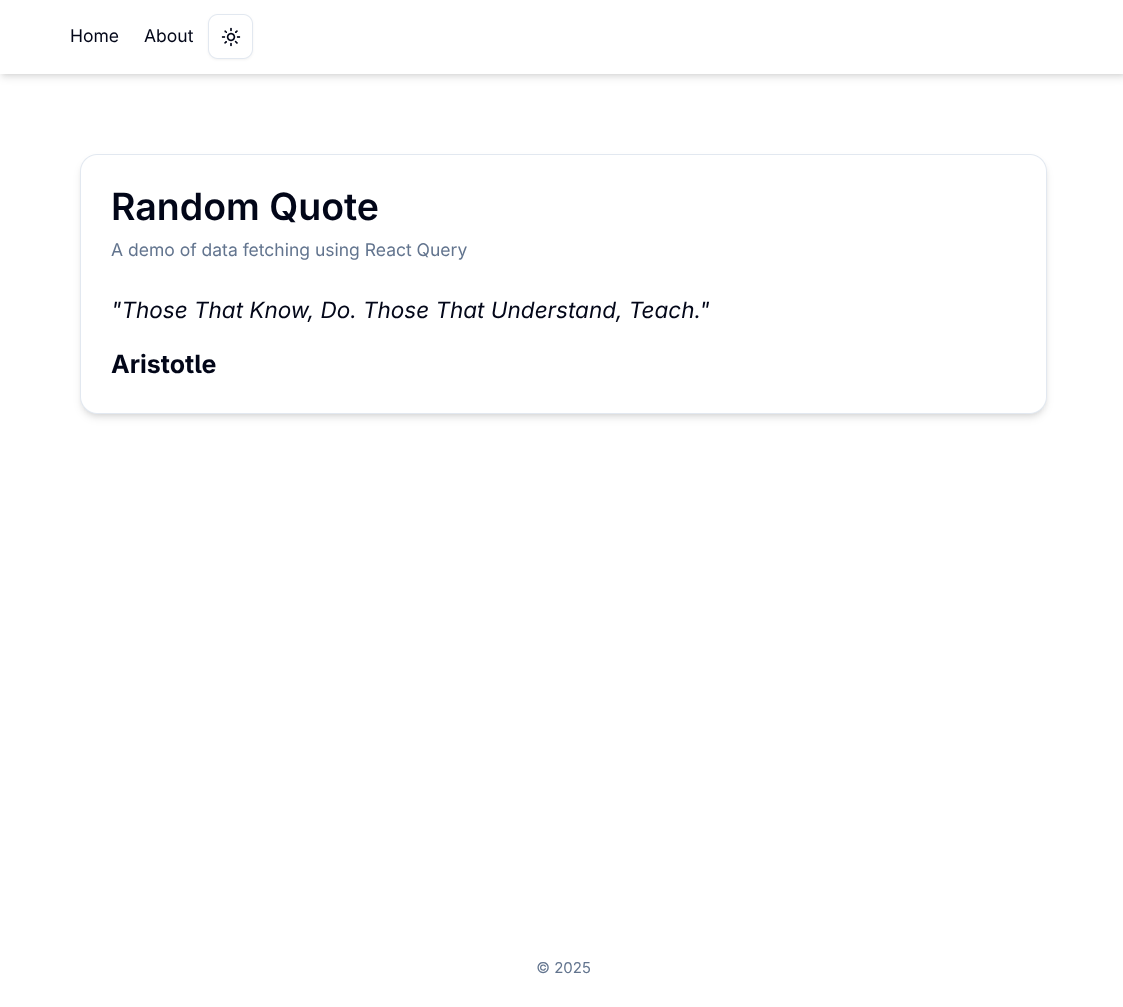
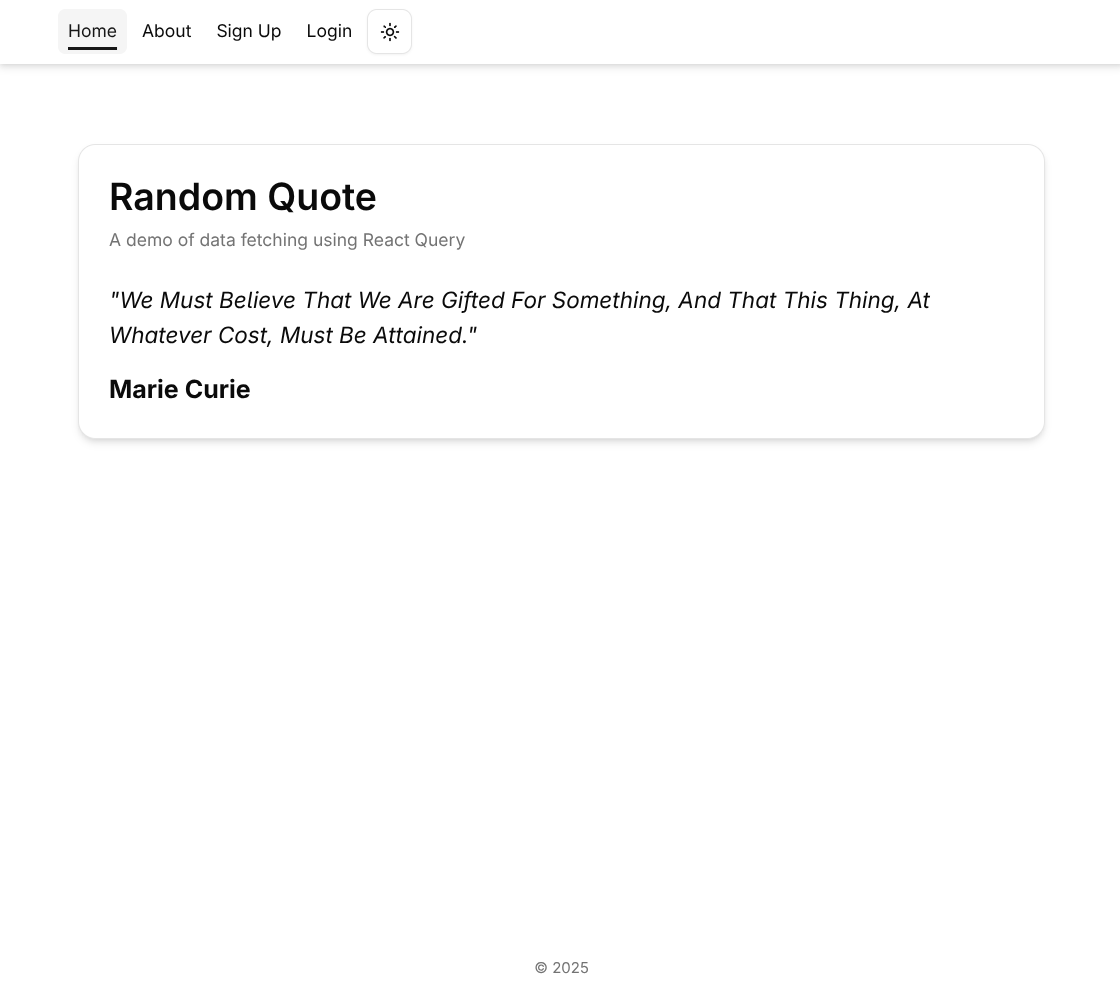
docs: Add User Account section

diff --git a/README.md b/README.md
@@ -29,6 +29,7 @@ A modern React SPA starter template with routing, data fetching, styling, and te
 
 - [React Compiler](https://react.dev/learn/react-compiler) enabled
 - Theme switcher
+- User Account: sign-up, sign-in, password reset and profile
 
 ## Requirements
 
@@ -79,7 +80,7 @@ This starter kit uses **React Router** for handling all client-side routing. The
 
 ```tsx
 <BrowserRouter>
-  <Routes />
+  <App />
 </BrowserRouter>
 ```
 
@@ -90,29 +91,34 @@ All routes are defined in `routes.ts`. To create a route, add a `RouteObject` to
 ```tsx
 // src/routes.tsx
 // omitted for brevity...
-export const routes: RouteObject[] = [
-  {
-    Component: Layout,
-    children: [
-      { index: true, Component: Home },
-      { path: 'signup', Component: SignUp },
-    ],
-  },
+export const paths = {
+  signup: '/signup',
+  signin: '/signin',
+  forgotPassword: '/forgot-password',
+  resetPassword: '/reset-password',
+};
+
+export const routes = [
+  { index: true, Component: Home },
+  { path: paths.signup, Component: SignUp },
+  { path: paths.signin, Component: Login },
+  { path: paths.forgotPassword, Component: ForgotPassword },
+  { path: paths.resetPassword, Component: ResetPassword },
   { path: '*', Component: NotFound },
-];
+] satisfies RouteObject[];
 ```
 
 ### Lazy loading components
 
-Deferring the loading of component’s code until it is rendered for the first time improves performance. To lazy load components, dynamically import components with the `lazy` function from react. Then, set the lazy-loaded component as the value of the `Component` property of the `RouteObject`.
+Deferring the loading of component’s code until it is rendered for the first time improves performance. To lazy load components, dynamically import components with the `lazy` function from `react`. Then, set the lazy-loaded component as the value of the `Component` property of the `RouteObject`.
 
 ```tsx
 const About = lazy(() => import('@/About'));
 
-export const routes: RouteObject[] = [
+export const routes = [
   // existing route objects omitted for brevity...
   { path: 'about', Component: About },
-];
+] satisfies RouteObject[];
 ```
 
 > **Tip:** _Always use absolute paths with path alias when importing for better maintainability. The `@` alias is preconfigured to point to the `src` folder._
@@ -138,23 +144,30 @@ import { ErrorBoundary } from 'react-error-boundary';
 
 const queryClient = new QueryClient();
 
-const App: FC = () => {
-  return (
-    <QueryClientProvider client={queryClient}>
-      <QueryErrorResetBoundary>
-        {({ reset }) => (
-          <ErrorBoundary FallbackComponent={ErrorFallback} onReset={reset}>
-            <ThemeProvider>
-              <Router />
-            </ThemeProvider>
-          </ErrorBoundary>
-        )}
-      </QueryErrorResetBoundary>
-    </QueryClientProvider>
-  );
-};
+const root = document.getElementById('root');
+if (!root) {
+  throw new Error('root element not found');
+}
 
-export default App;
+createRoot(root).render(
+  <StrictMode>
+    <BrowserRouter>
+      <QueryClientProvider client={queryClient}>
+        <QueryErrorResetBoundary>
+          {({ reset }) => (
+            <ErrorBoundary FallbackComponent={ErrorFallback} onReset={reset}>
+              <ThemeProvider>
+                <AuthProvider>
+                  <App />
+                </AuthProvider>
+              </ThemeProvider>
+            </ErrorBoundary>
+          )}
+        </QueryErrorResetBoundary>
+      </QueryClientProvider>
+    </BrowserRouter>
+  </StrictMode>
+);
 ```
 
 To fetch data with React Query, first create a custom hook that calls `useQuery` or `useSuspenseQuery`.
@@ -273,6 +286,59 @@ export default App;
 
 To learn more about the available components, how to add, import, and customize them, consult the [shadcn/ui documentation](https://ui.shadcn.com/docs/installation/vite#add-components).
 
+## User Account
+
+Routes and forms for user accounts are already setup. You only need to send a request to your backend.
+The routes are wrapped with an `AuthProvider` that exposes a `useAuth` hook that provide access to the auth context.
+
+```tsx
+<AuthProvider>
+  <App />
+</AuthProvider>
+```
+
+### useAuth hook
+
+The auth context can be retrieved by calling the `useAuth` hook. It returns an object containing the current logged in `user` if it exists together with a `login` and `logout` function.
+
+```tsx
+export interface AuthState {
+  user?: User;
+  login: (user: User) => void;
+  logout: () => void;
+}
+```
+
+### Logging-in a user
+
+To login a user, call the login function in and pass the User object as an argument.
+
+```tsx
+const { login } = useAuth();
+
+const onSubmit = async (values: z.infer<typeof formSchema>) => {
+  try {
+    const res = await fetch('http://localhost:8888/auth/login', {
+      method: 'POST',
+      headers: {
+        'Content-Type': 'application/json',
+      },
+      body: JSON.stringify(creds),
+    });
+
+    if (!res.ok) throw new Error('Login request failed.');
+
+    return (await res.json()) as LoginData;
+
+    login({ name: user.name, email: user.email });
+    toast.success(JSON.stringify('You are now logged in!', undefined, 2));
+  } catch (error) {
+    console.error('Form submission error', error);
+    toast.error('Failed to submit the form. Please try again.');
+  }
+};
+```
+
 ## Stories
 
 This template uses **Storybook** to test and document components. Theme switching support works out of the box. The builtin components on this template have their respective stories.
@@ -306,3 +372,5 @@ For a guide on the concept of stories and to create stories, visit the [storyboo
 - Accessibility Testing: [react-axe](https://www.npmjs.com/package/@axe-core/react)
 - Design shadcn/ui theme: [tweakcn](https://tweakcn.com)
 - Shadcn form builder: [shadcn-form](https://www.shadcn-form.com)
+- Ready to use hooks: [usehooks-ts](https://www.npmjs.com/package/usehooks-ts)
+- Essential typescript types: [ts-essentials](https://www.npmjs.com/package/ts-essentials)
